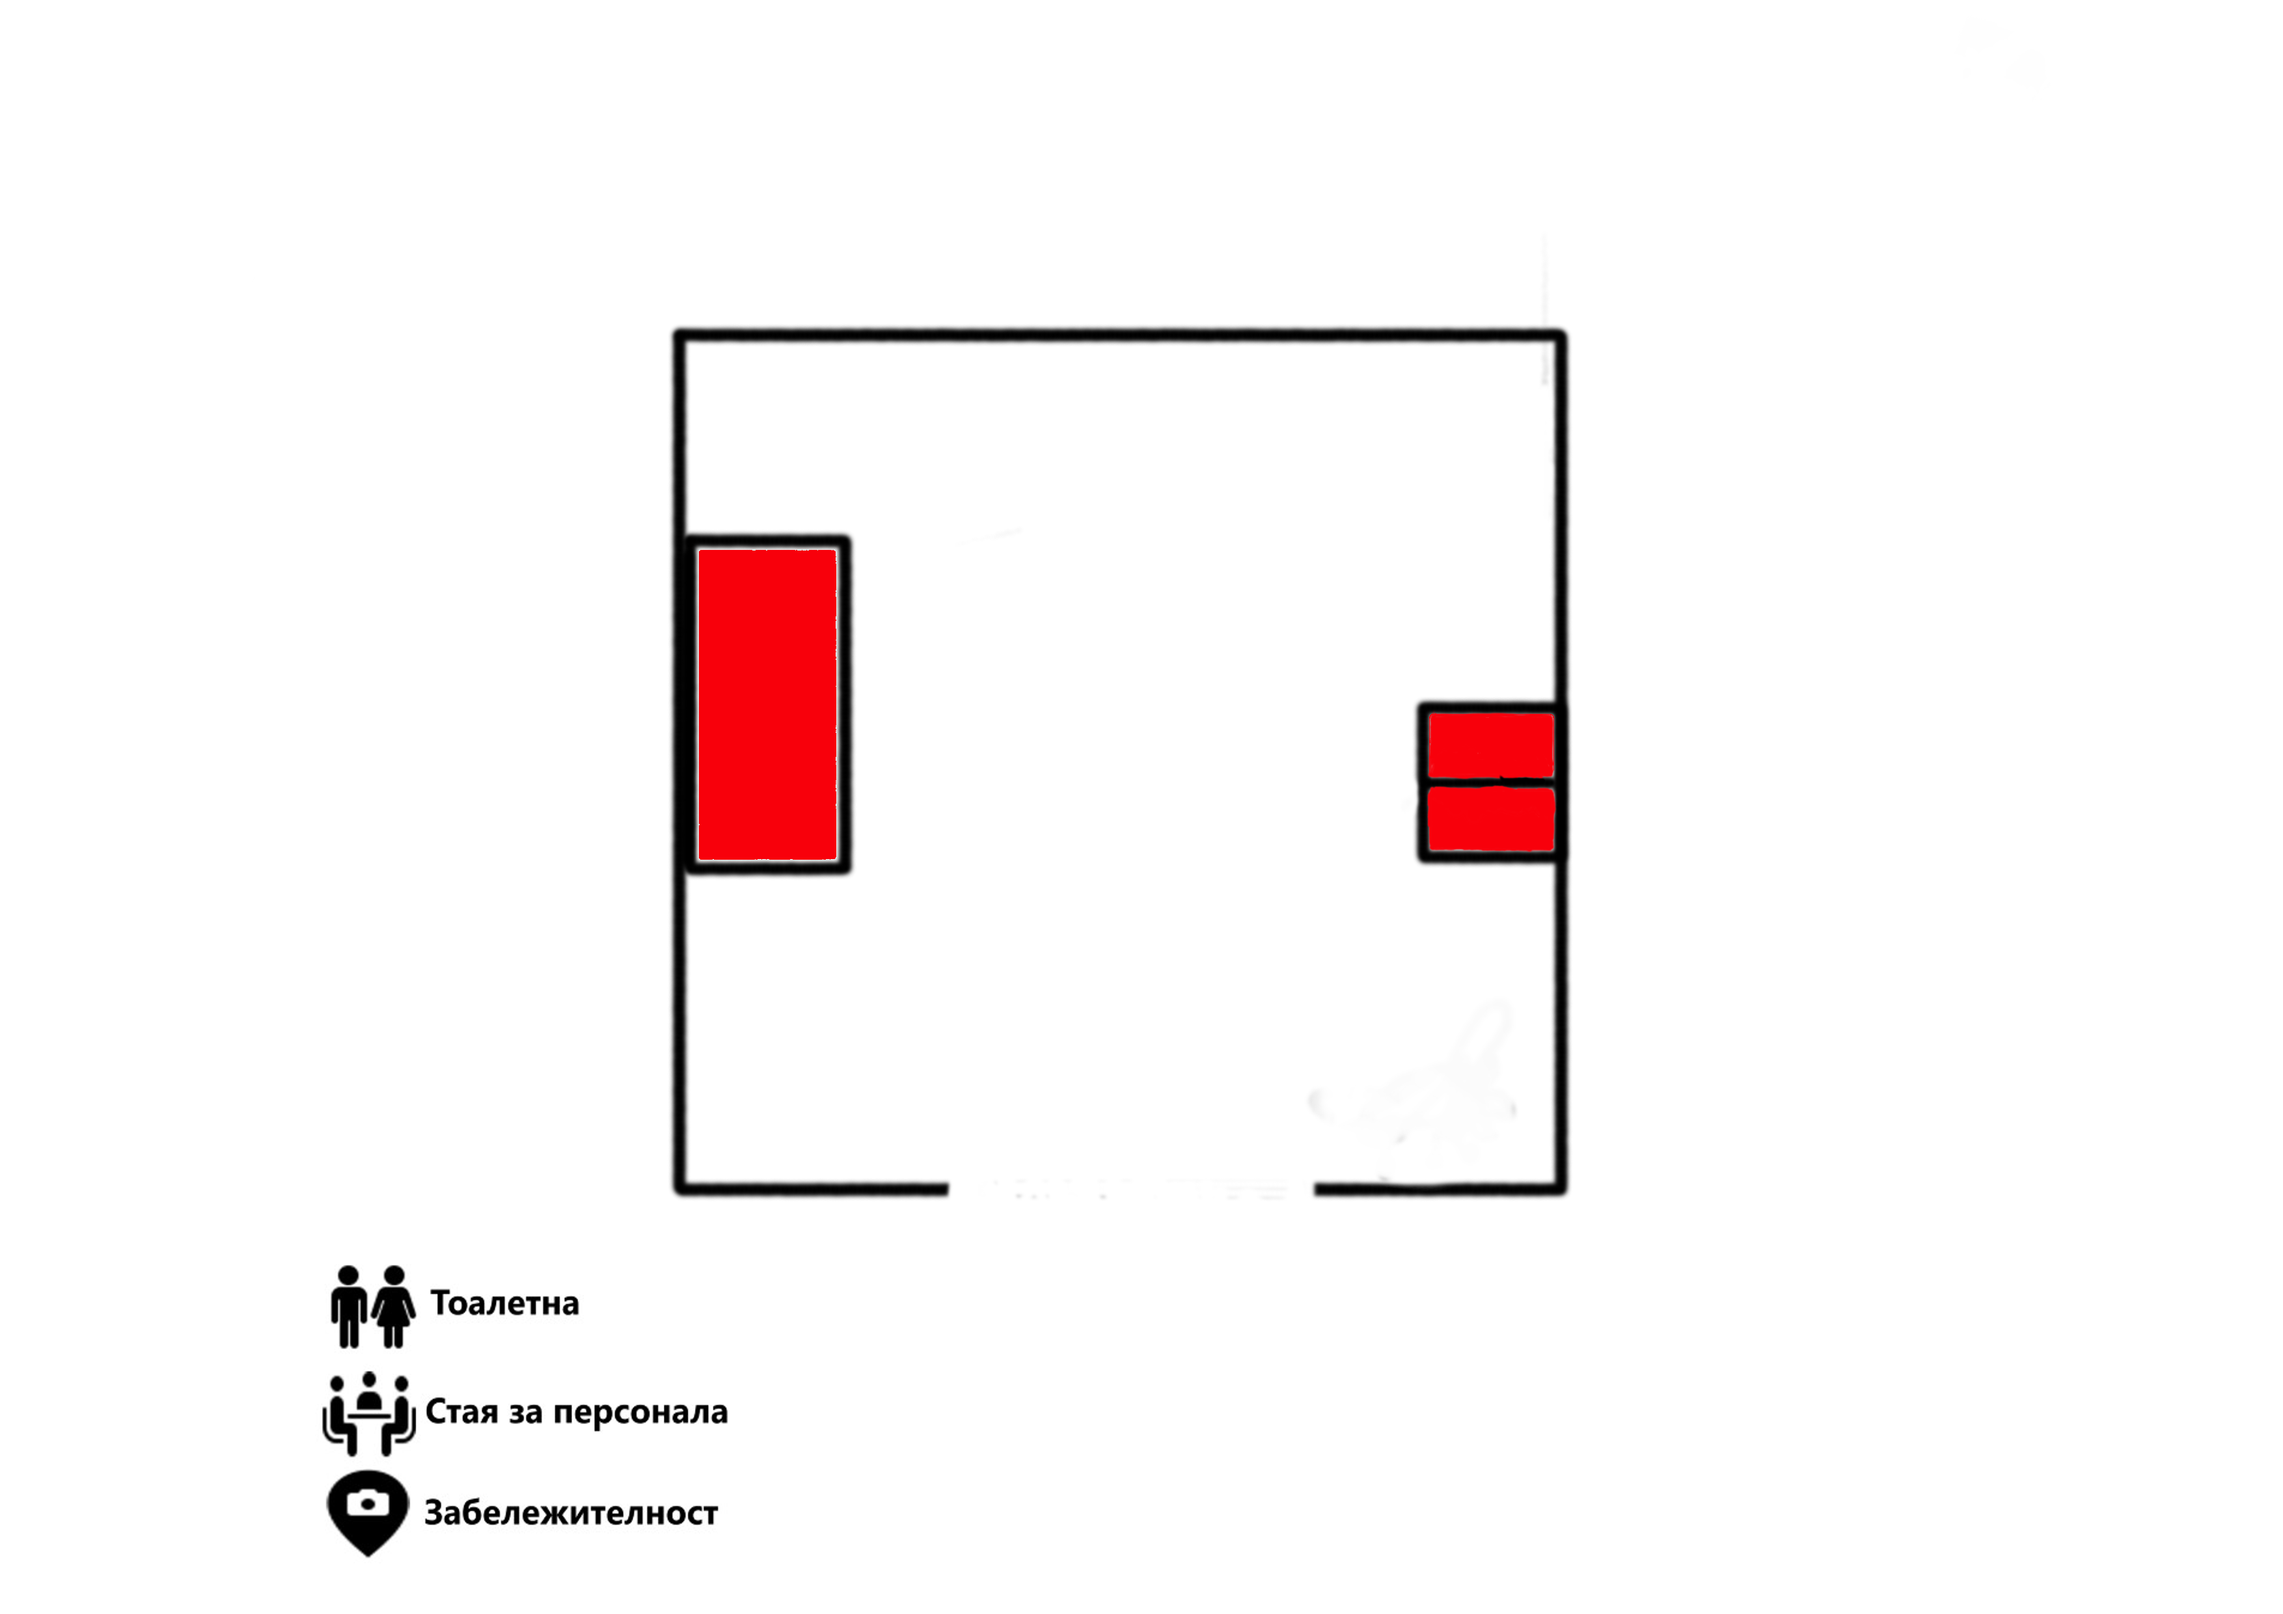
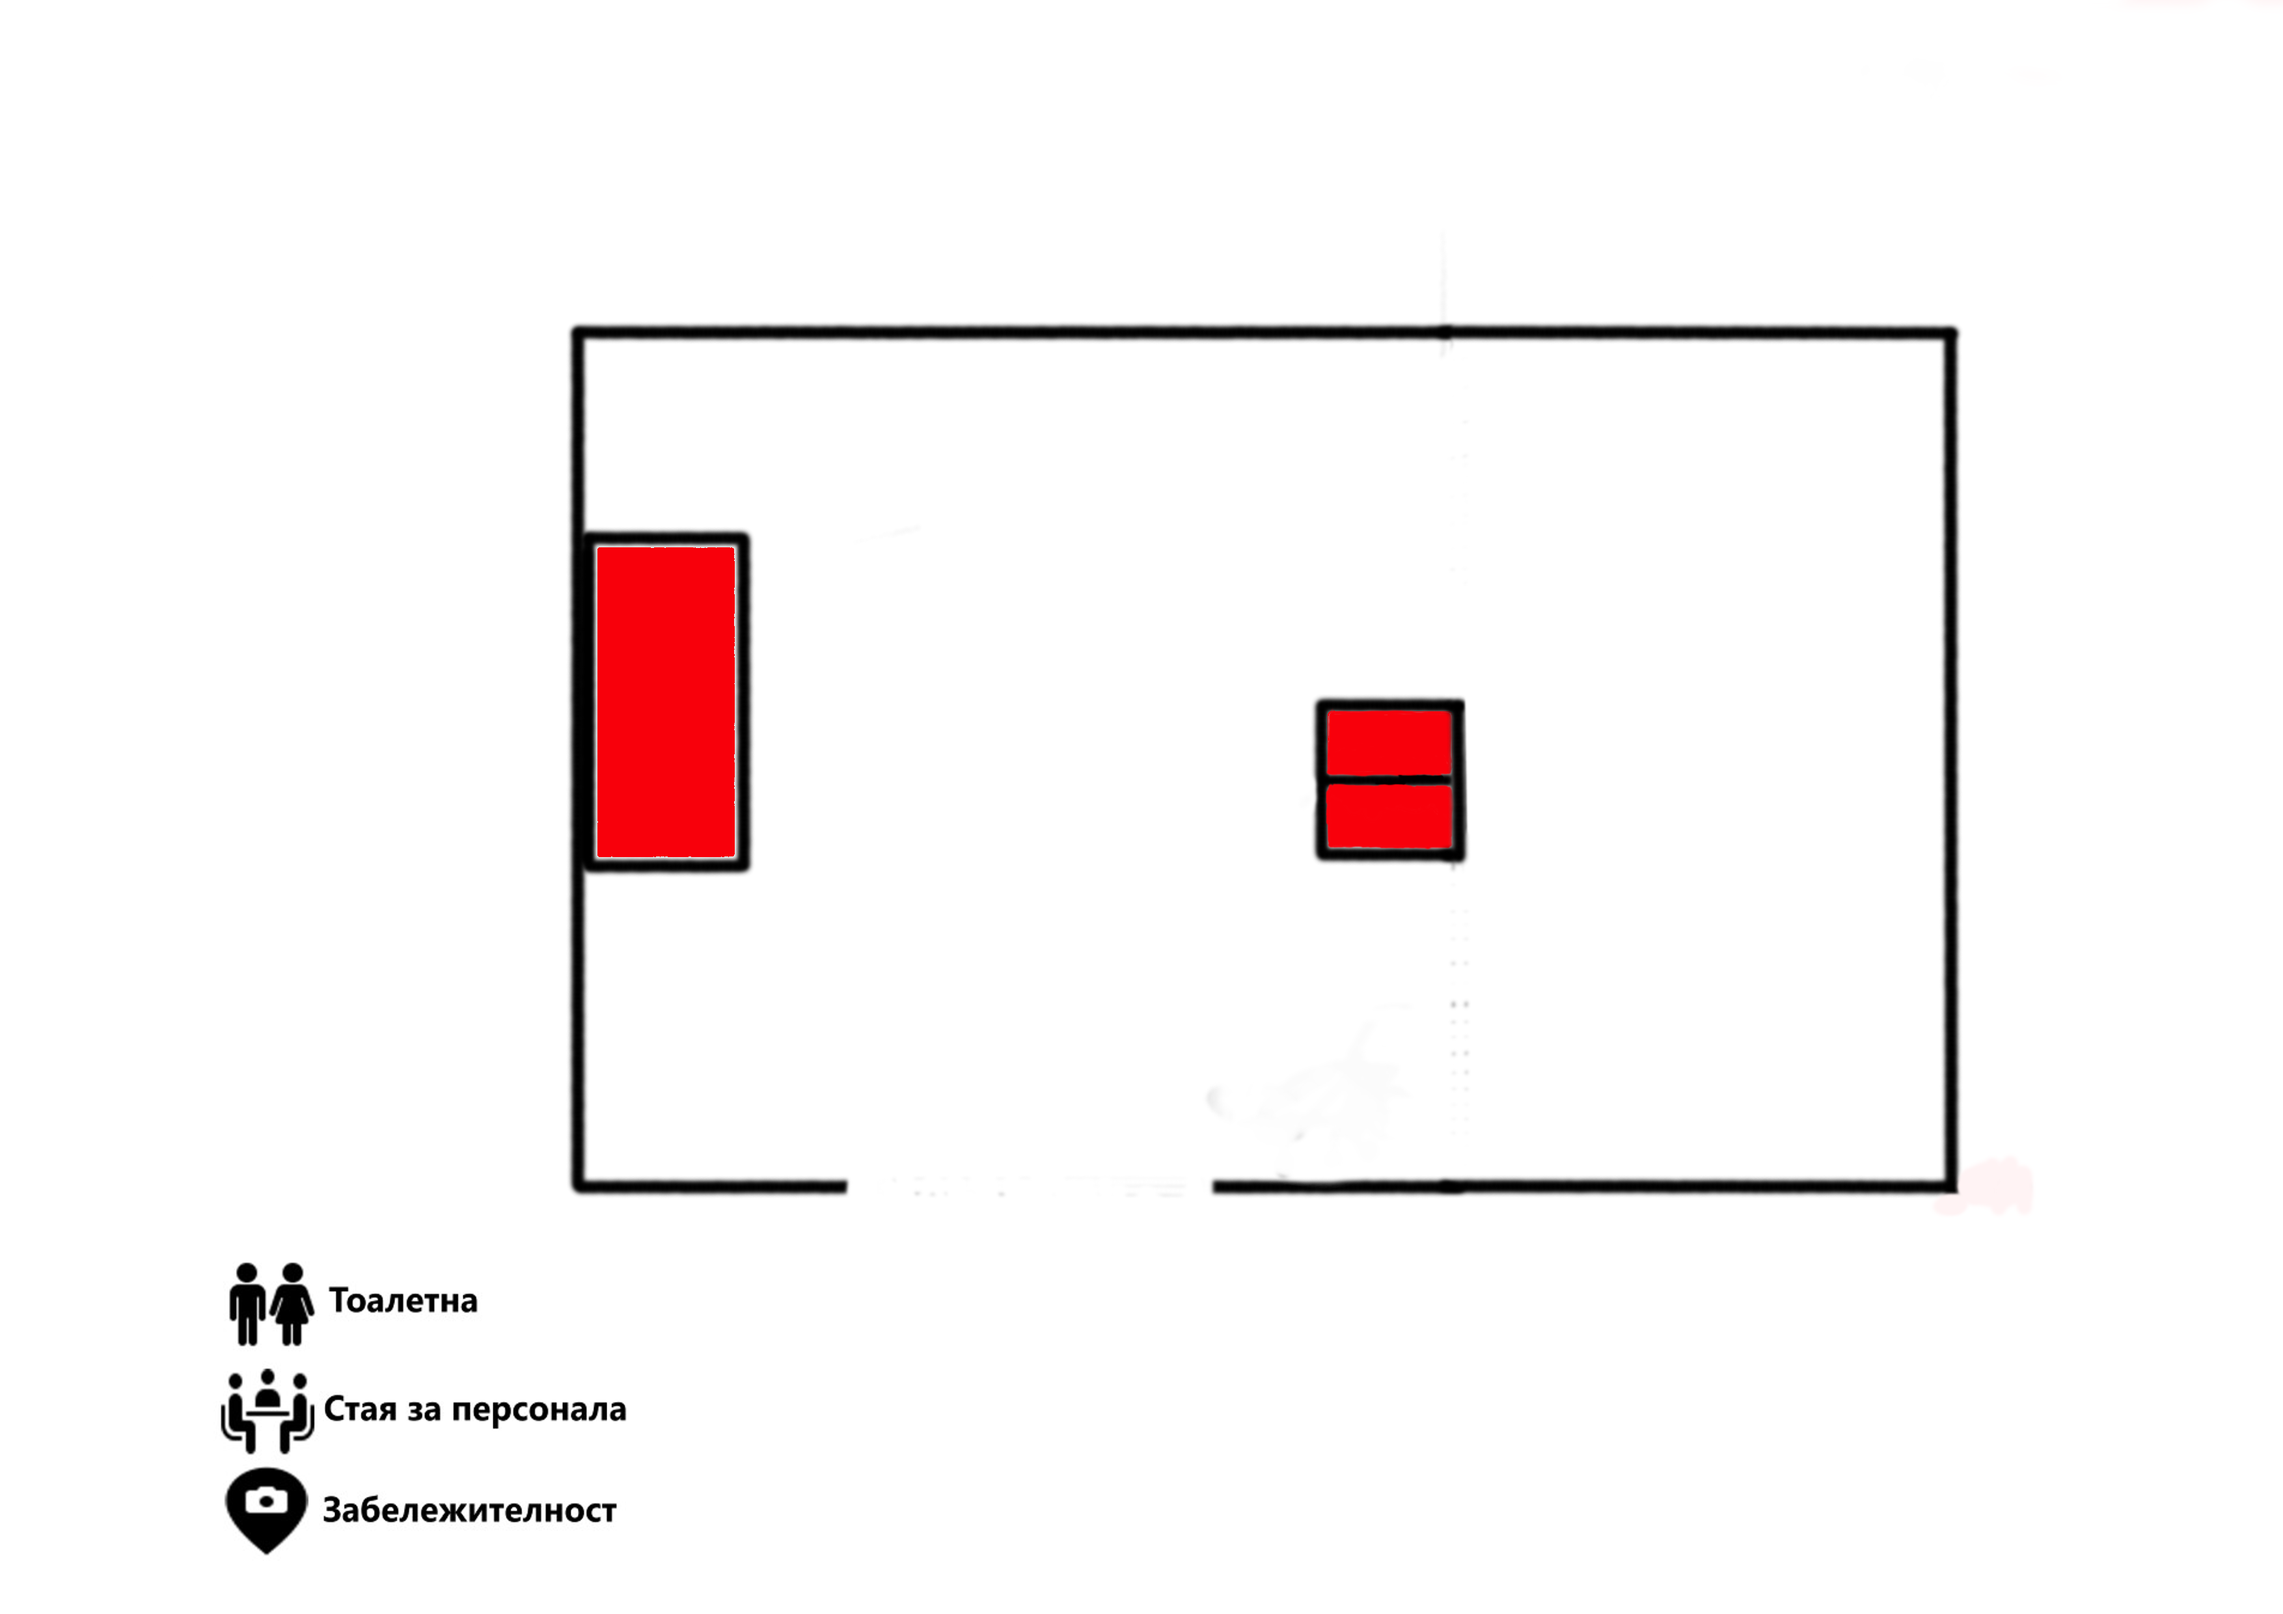
updated blok10 map and included some more locations

Changed region(s): [[0.2486, 0.1863, 0.87, 0.7452], [0.0932, 0.7762, 0.3107, 0.9625]]

diff --git a/templates/scripts/script1.js b/templates/scripts/script1.js
@@ -1,9 +1,8 @@
 var map = L.map('map', {
     minZoom: 6,
     maxZoom: 7,
-    scrollWheelZoom: true,
-    setZoom: 5, 
-  }).setView([54.5, 4.6], 15);
+    scrollWheelZoom: true 
+  }).setView([54.5, 4.6], 6);
 //==========================================================
 const toiletIcon = L.icon({
     iconUrl: 'https://img.icons8.com/ios-filled/50/toilet.png',
@@ -40,8 +39,13 @@ const marker4 = L.marker([55.15, 12.05], {
 }).addTo(map);
 marker4.bindTooltip("9205");
 
-marker4.bindPopup("9205 popup");
+var marker4pop = `<b>9205:</b><br>
+Нещо като зала за лекции.
+Главно за поправки по градивни елементи.
+На почти всеки чин има рисунки от ученици за ученици.
 
+`
+marker4.bindPopup(marker4pop);
 
 //=====================================================================
 const rectangle2 = L.icon({
@@ -54,6 +58,15 @@ const marker5 = L.marker([53.53, 13.31], {
 }).addTo(map);
 marker5.bindTooltip("9230");
 
+var marker5pop = `<b>9230:</b><br>
+Малка зелена стая.
+Лявата редица е хубава, дясната не става.
+Вратата по някаква причина е най-отзад на стаята.
+Floor loot: JPG Le Beau, пречиствател на въздух, туба.
+Еднo момче се напи и припадна в нея.
+`
+marker5.bindPopup(marker5pop);
+
 //===========================================================================
 const rectangle3 = L.icon({
     iconUrl: 'https://img.icons8.com/pulsar-line/48/rounded-rectangle.png',
@@ -64,6 +77,13 @@ const marker6 = L.marker([51.33, 14.20], {
     icon: rectangle3
 }).addTo(map);
 marker6.bindTooltip("9221");
+
+var marker6pop = `
+<b>9221:</b><br> 
+Голяма е и само това.
+`
+
+marker6.bindPopup(marker6pop);
 //===========================================================================
 const rectangle4 = L.icon({
     iconUrl: 'https://img.icons8.com/pulsar-line/48/rounded-rectangle.png',
@@ -74,6 +94,12 @@ const marker7 = L.marker([51.33, 12.35], {
     icon: rectangle4
 }).addTo(map);
 marker7.bindTooltip("9223");
+
+var marker7pop = `<b>9223:</b><br> 
+Голяма е.
+Като цяло става. 
+`
+
 //=========================================================================
 const rectangle5 = L.icon({
     iconUrl: 'https://img.icons8.com/pulsar-line/48/rounded-rectangle.png',
@@ -84,16 +110,15 @@ const marker8 = L.marker([52.74 , 14.8], {
     icon: rectangle5
 }).addTo(map);
 marker8.bindTooltip("9217");
-//=======================================================================
-const rectangle6 = L.icon({
-    iconUrl: 'https://img.icons8.com/pulsar-line/48/rounded-rectangle.png',
-    iconSize: [43, 100]
-});
 
-const marker9 = L.marker([52.74 , 14.8], {
-    icon: rectangle6
-}).addTo(map);
-marker9.bindTooltip("9217");
+var marker8pop = `
+<b>9217:</b><br> 
+Много е зле.
+Поне е слънчево.
+`
+marker8.bindPopup(marker8pop);
+
+
 //===========================================================================
 const rectangle7 = L.icon({
     iconUrl: 'https://img.icons8.com/pulsar-line/48/rounded-rectangle.png',
@@ -104,6 +129,16 @@ const marker10 = L.marker([54.53 , 9.87], {
     icon: rectangle7
 }).addTo(map);
 marker10.bindTooltip("9224");
+
+var marker10pop = `<b>9224:</b><br>
+Компютърна зала.
+Има 14 лаптопа и може би има 14 мишки и зарядни.
+Мила Нейкова hangout spot.
+Понякога има адекватни учители. 
+Има мултимедия и в хубав ден ще работи.
+`
+
+marker10.bindPopup(marker10pop);
 //=============================================================================
 const rectangle8 = L.icon({
     iconUrl: 'https://img.icons8.com/pulsar-line/48/rounded-rectangle.png',
@@ -114,6 +149,13 @@ const marker11 = L.marker([54.53 , 7.87], {
     icon: rectangle8
 }).addTo(map);
 marker11.bindTooltip("9222");
+
+var marker11pop = `
+<b>9222:</b><br>
+Компютърна зала.
+Има около 14 лаптопа, но няма 14 мишки и зарядни.
+`
+marker11.bindPopup(marker11pop);
 //==========================================================================
 const rectangle9 = L.icon({
     iconUrl: 'https://img.icons8.com/pulsar-line/48/rounded-rectangle.png',
@@ -124,6 +166,12 @@ const marker12 = L.marker([54.53 , 6.25], {
     icon: rectangle9
 }).addTo(map);
 marker12.bindTooltip("9218");
+
+var marker12pop = `<b>9218:</b><br> 
+Не става.
+`
+
+marker12.bindPopup(marker12pop);
 //============================================================================
 const rectangle10 = L.icon({
     iconUrl: 'https://img.icons8.com/pulsar-line/48/rounded-rectangle.png',
@@ -135,6 +183,63 @@ const marker13 = L.marker([54.53 , 0.94], {
 }).addTo(map);
 marker13.bindTooltip("9202");
 
+var marker13pop = `<b>9202</b><br>
+Голяма стая.
+Зелена е.
+Точно до учителската стая, за това не прави глупости.
+`
+marker13.bindPopup(marker13pop);
+
+//===============================================================================
+const pointOfInterest = L.icon({
+    iconUrl: 'https://img.icons8.com/ios-filled/50/point-of-interest.png',
+    iconSize: [40, 40]
+});
+
+const marker14 = L.marker([55.2, 13.3], {
+    icon: pointOfInterest
+}).addTo(map);
+marker14.bindTooltip("Point of interest");
+
+var marker14pop = `<b>Random стълби в коридора:</b><br>
+Защо съществуват?
+`
+
+marker14.bindPopup(marker14pop);
+
+//==========================================================================
+const pointOfInterest2 = L.icon({
+    iconUrl: 'https://img.icons8.com/ios-filled/50/point-of-interest.png',
+    iconSize: [40, 40]
+});
+
+const marker15 = L.marker([53.27, 14.8], {
+    icon: pointOfInterest2
+}).addTo(map);
+marker15.bindTooltip("Point of interest");
+
+var marker15pop = `<b>Огледало на стълбите:</b><br>
+Едно от малкото огледала в сградата.
+
+`
+marker15.bindPopup(marker15pop);
+
+//===========================================================
+const pointOfInterest3 = L.icon({
+    iconUrl: 'https://img.icons8.com/ios-filled/50/point-of-interest.png',
+    iconSize: [40, 40]
+});
+
+const marker16 = L.marker([55.25, 3.4], {
+    icon: pointOfInterest3
+}).addTo(map);
+marker16.bindTooltip("Point of interest");
+
+var marker16pop = `<b>Асансьор:</b><br>
+Никой не знае къде води.
+Може би не работи.
+`
+marker16.bindPopup(marker16pop);
 
 
 

diff --git a/templates/scripts/script10.js b/templates/scripts/script10.js
@@ -2,8 +2,7 @@ var map = L.map('map', {
     minZoom: 6,
     maxZoom: 7,
     scrollWheelZoom: true,
-    setZoom: 5, 
-  }).setView([54.5, 4.6], 15);
+  }).setView([54.5, 4.6], 6);
 
 
 //=========================================================================
@@ -12,11 +11,34 @@ const rectangle5 = L.icon({
     iconSize: [67, 169]
 });
 
-const marker8 = L.marker([54.09 , 4.7], {
+const marker8 = L.marker([54.09 , 4], {
     icon: rectangle5
 }).addTo(map);
 marker8.bindTooltip("Книжарница");
 
+var marker8pop = `<b>Книжарница:</b><br>
+Главно за хартия за контролни(при г-жа Абрамович) и калкулатори(при г-жа Башева).
+До нея има античен телефон.
+`
+marker8.bindPopup(marker8pop);
+
+//==========================================================================
+const rectangle6 = L.icon({
+    iconUrl: 'https://img.icons8.com/pulsar-line/48/rounded-rectangle.png',
+    iconSize: [60, 85]
+});
+
+const marker9 = L.marker([53.79 , 9.34], {
+    icon: rectangle6
+}).addTo(map);
+marker9.bindTooltip("Vending машини");
+
+var marker9pop = `<b>Вендинг машина:</b><br>
+Legendary location.
+Инфлацията е <em>insane</em>.
+Има шанс да получиш 2 вафли „Боровец“.
+`
+marker9.bindPopup(marker9pop);
 
 var osm = L.imageOverlay('10blok_layout.png', [[57, -0.99], [50, 16]]);
 osm.addTo(map);
